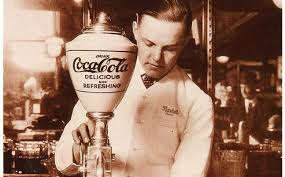
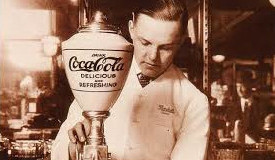
Updated style.css and and change size image

diff --git a/style/style.css b/style/style.css
@@ -1,13 +1,10 @@
-html {
+body {
   box-sizing: border-box;
-  font-family: "Trebuchet MS", "Lucida Sans Unicode", "Lucida Grande", "Lucida Sans", Arial, sans-serif;
+  font-family: 'Trebuchet MS', 'Lucida Sans Unicode', 'Lucida Grande', 'Lucida Sans', Arial, sans-serif;
   font-size: 16px;
   scroll-behavior: smooth;
 }
 
-*,
-*::after,
-*::before,
 body,
 form,
 p {
@@ -67,8 +64,8 @@ body {
   justify-content: center;
   width: 100%;
 
-  font-family: "Big Shoulders Display", cursive;
-  font-family: "Lobster", cursive;
+  font-family: 'Big Shoulders Display', cursive;
+  font-family: 'Lobster', cursive;
 }
 
 .main-box {
@@ -89,7 +86,7 @@ body {
   height: var(--height-header-mobile);
   justify-content: space-between;
 
-  background-image: url("../img/fondo.jpg");
+  background-image: url('../img/fondo.jpg');
   background-size: cover;
   background-repeat: no-repeat;
 }
@@ -169,7 +166,7 @@ body {
 }
 
 .cards__item {
-  width: 50%;
+  width: 100%;
   height: 100%;
 
   display: flex;
@@ -191,6 +188,10 @@ body {
 
 .cards__img {
   width: 100%;
+}
+
+.cards__img img {
+  height: 10rem;
 }
 
 .btn {
@@ -262,7 +263,7 @@ body {
 
   background-color: #fa4a3b;
 
-  font-family: "Open Sans";
+  font-family: 'Open Sans';
   font-weight: 600;
 }
 
@@ -356,6 +357,10 @@ body {
     flex-basis: 1;
     height: 100%;
   }
+
+  .cards__img img {
+    height: 8rem;
+  }
 }
 
 /** =========================================================================                                                         Media Querie 1024
@@ -378,5 +383,9 @@ body {
 
   .article {
     flex-basis: 50%;
+  }
+
+  .cards__img img {
+    height: 13rem;
   }
 }
